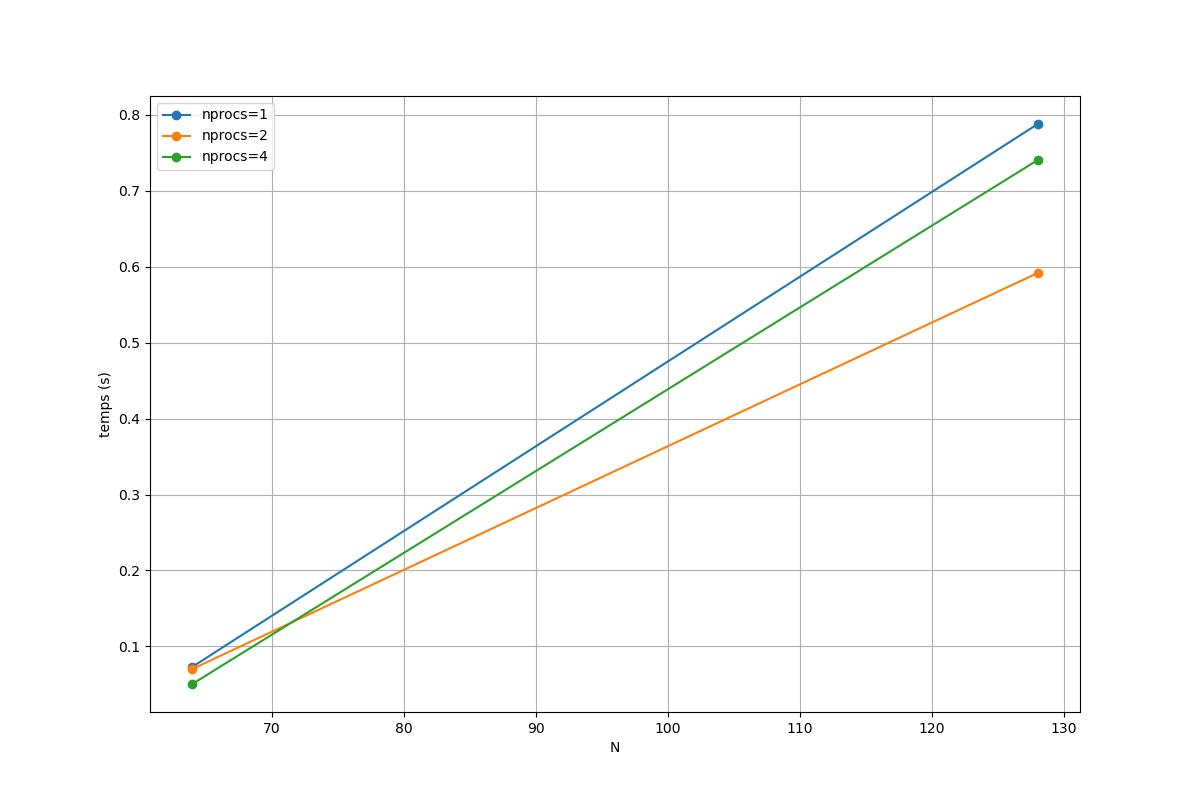
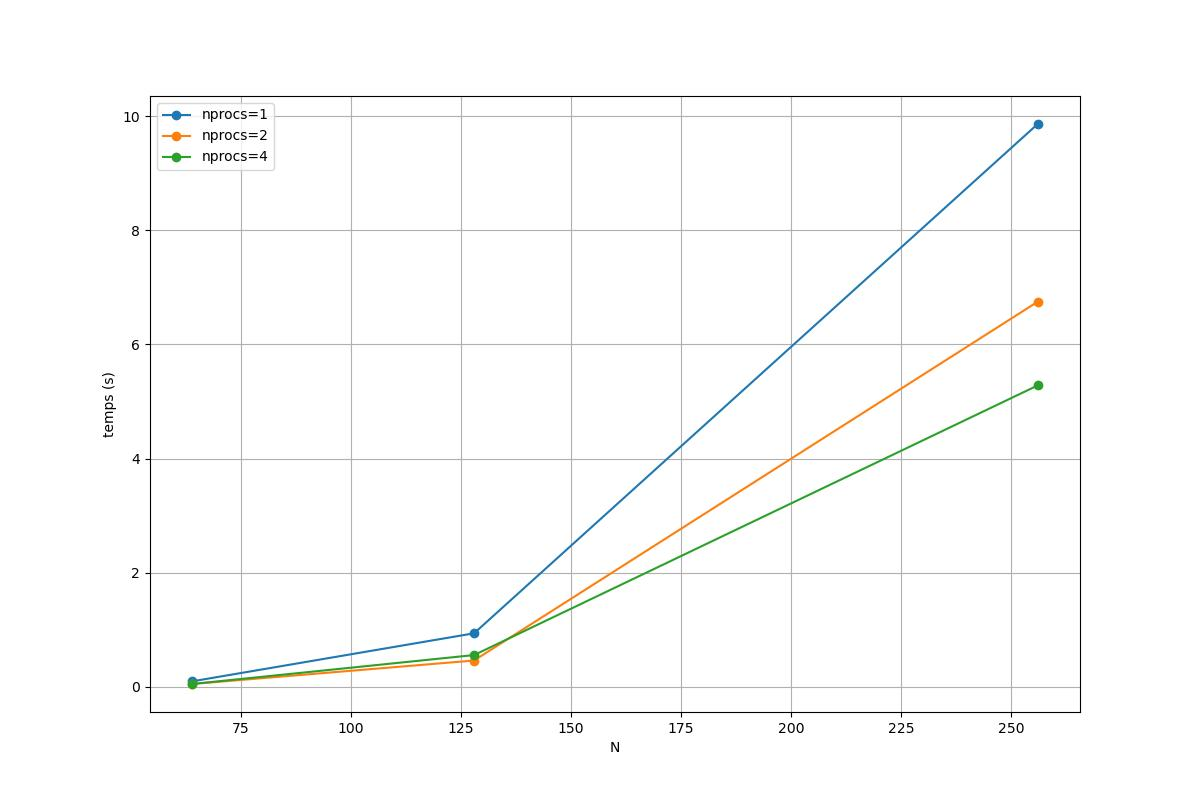
little corrections

diff --git a/src/solve.cpp b/src/solve.cpp
@@ -85,7 +85,7 @@ void updateT(const std::vector<double>& T, std::vector<double>& T_plus, int Nx, 
         
         for(int j=1; j < Ny-1; ++j) {
             index = i * Ny + j;
-            // Correction des parenthèses d'indexation
+
             T_plus[index] = T[index] + p.kappa * p.dt * (
                 (T[(i+1)*Ny + j] - 2*T[index] + T[(i-1)*Ny + j]) / (p.dx*p.dx) +
                 (T[index + 1] - 2*T[index] + T[index - 1]) / (p.dy*p.dy)
@@ -97,7 +97,7 @@ void updateT(const std::vector<double>& T, std::vector<double>& T_plus, int Nx, 
 
 // Function to execute the Jacobi method with MPI
 double solve(int N, int rank, int nprocs, double *err_max, double *Tmax) {
-    // N_local inclut 2 lignes fantômes (sauf bords extrêmes, mais simplifié ici)
+
     int Nx_local = N / nprocs + 2;
     int Ny = N;
 
@@ -110,7 +110,7 @@ double solve(int N, int rank, int nprocs, double *err_max, double *Tmax) {
     double start_time = MPI_Wtime();
 
     for (int iter = 0; iter < p.Nt; ++iter) {
-        // Échanges des Ghost Cells (Bloquants mais sûrs pour débuter)
+
         if (rank > 0) {
             MPI_Sendrecv(&T[Ny], Ny, MPI_DOUBLE, rank-1, 0, 
                          &T[0], Ny, MPI_DOUBLE, rank-1, 0, MPI_COMM_WORLD, MPI_STATUS_IGNORE);
@@ -126,7 +126,6 @@ double solve(int N, int rank, int nprocs, double *err_max, double *Tmax) {
     
     double end_time = MPI_Wtime();
 
-    // Sauvegarde propre
     std::ofstream file(fmt::format("T_data_{}.txt", rank));
     for(int i=1; i < Nx_local-1; i++){
         for(int j=0; j < Ny; j++){

diff --git a/include/param.h b/include/param.h
@@ -25,7 +25,7 @@ struct Param{
 
     // Numerical parameters
 
-    std::vector<int> sizes = {64, 128}; // sizes of matrices to be tested
+    std::vector<int> sizes = {64, 128, 256}; // sizes of matrices to be tested
     double dx, dy, dt;
     int Nt;
 
